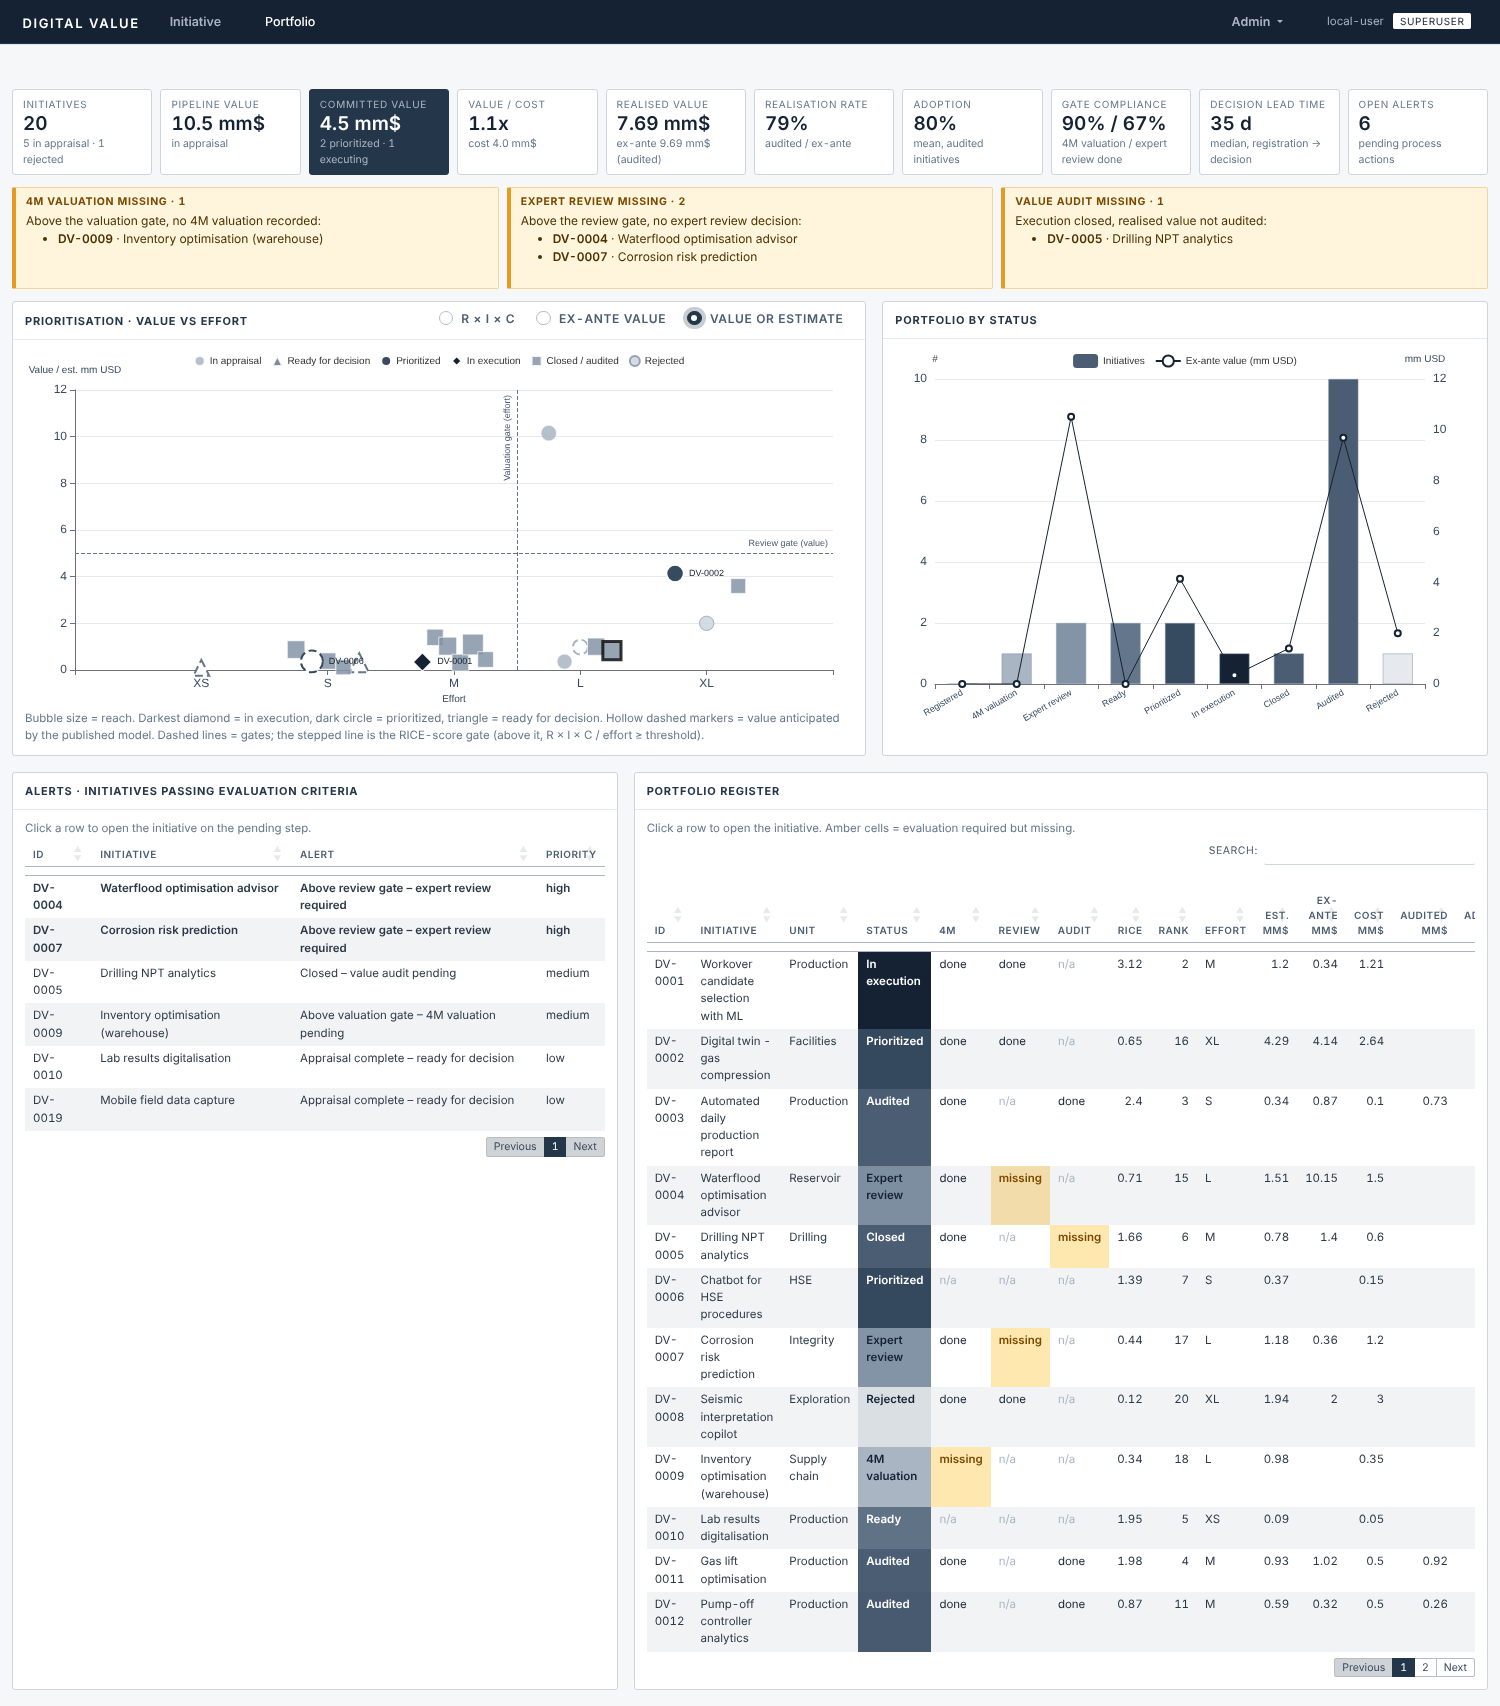
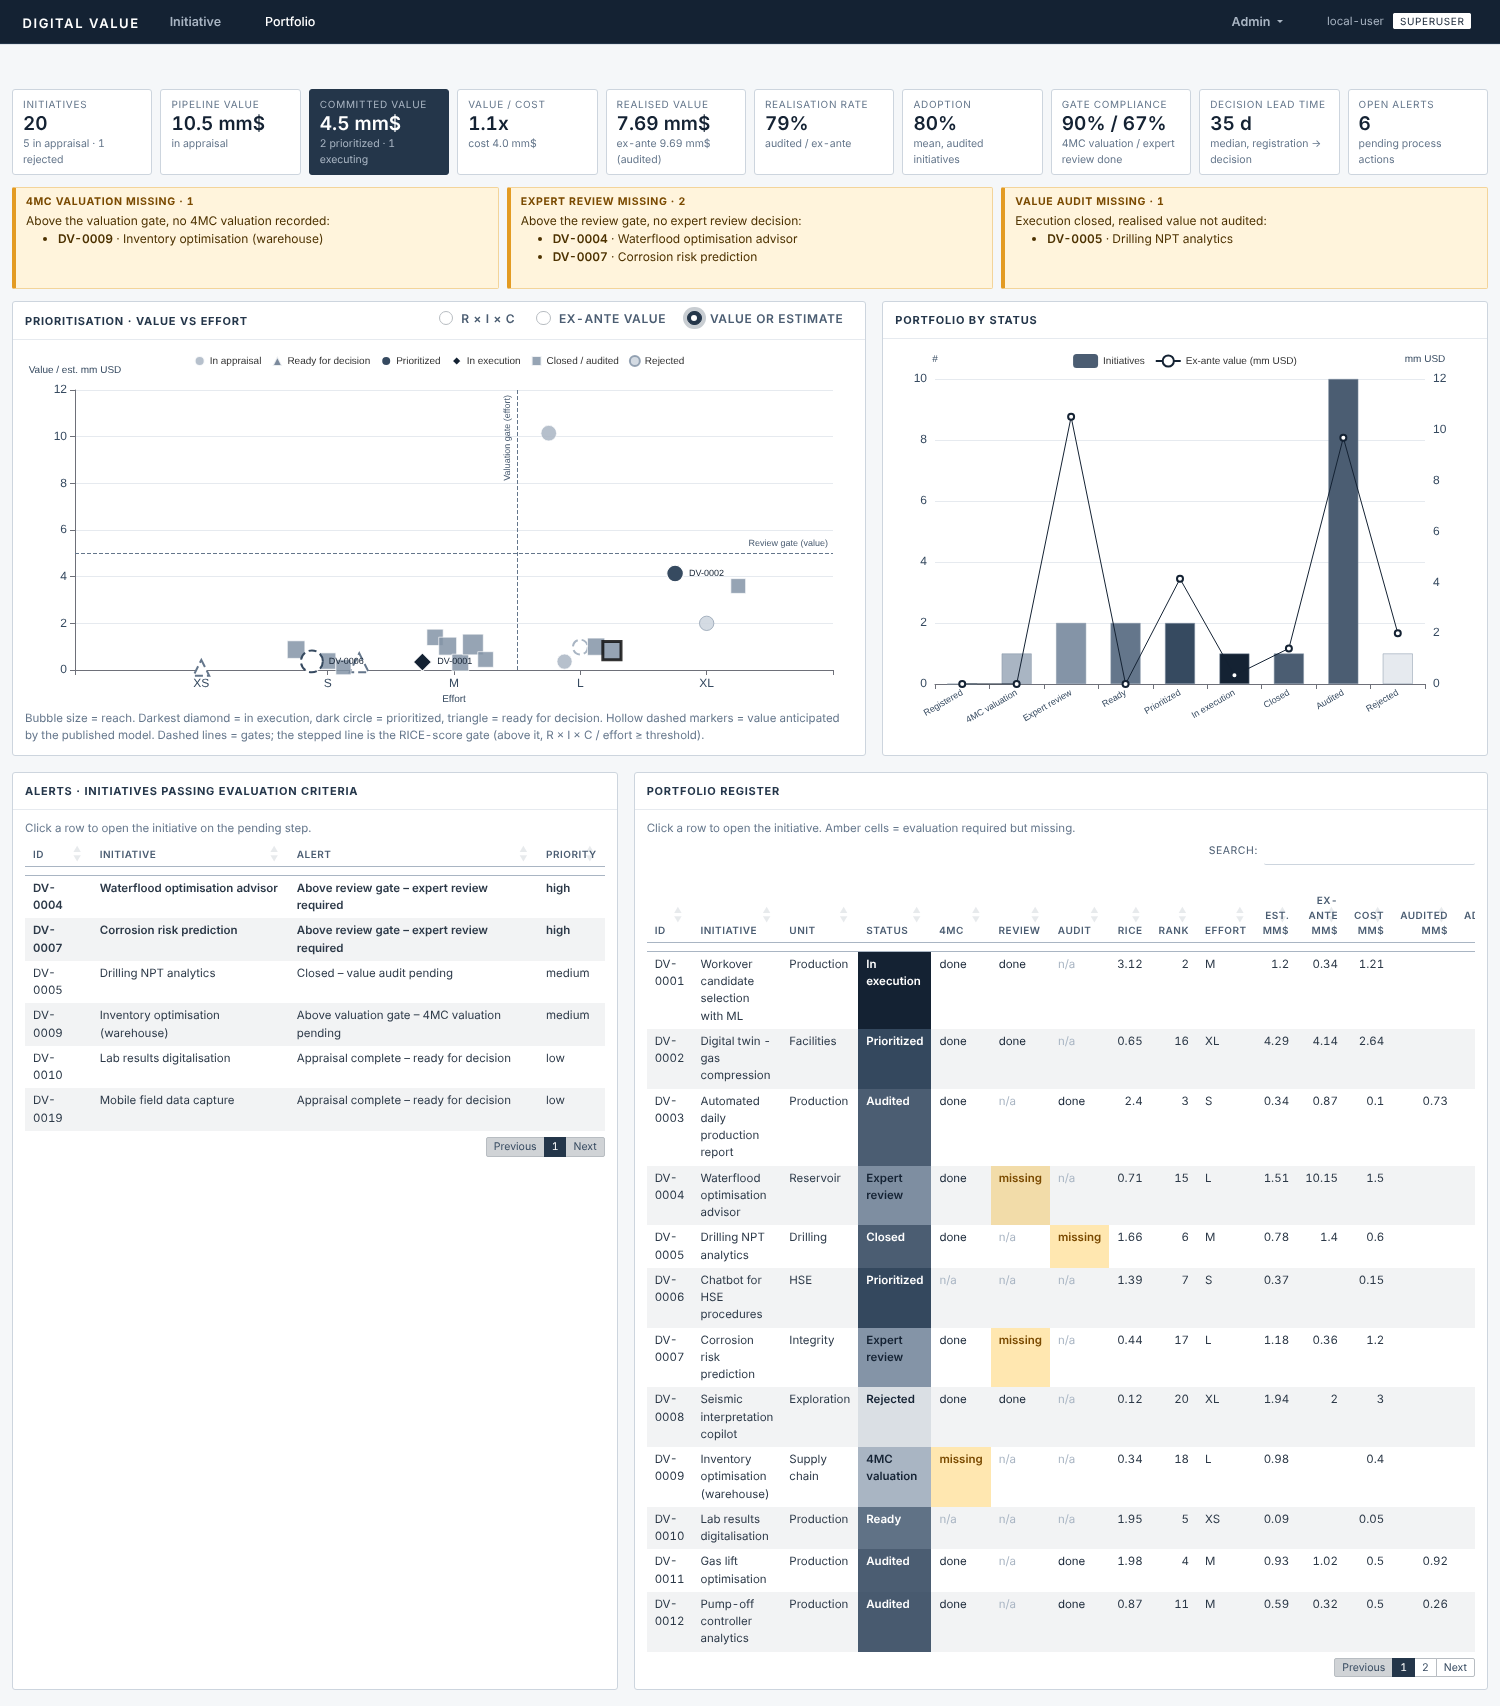
Rename 4M to 4MC (four value metrics plus cost)
User-facing labels, statuses, configuration, event map and README now say
4MC. Stored '4M valuation' statuses are renamed in place at startup.

Claude-Session: https://claude.ai/code/session_01N1EZf5BA3aM5WkjAKRAdJP

diff --git a/README.md b/README.md
@@ -16,15 +16,15 @@ Superusers also get an **Admin** menu: Value models, Process log and Parameters.
 | View | Step | What is recorded | Who | Required when |
 |---|---|---|---|---|
 | **Appraisal** (pre-execution) | 1 Registration & RICE | Name, description, owner, unit, cost, and the RICE inputs, saved in one form | **Everyone**. The record is then locked; only a superuser can change it | Always |
-| | 2 4M valuation | Calculation lines per metric (P, R, M, T), each with its formula, parameters and comment | Superuser | Effort ≥ L or RICE score ≥ 3 (*valuation gate*) |
-| | 3 Expert review | Manual evaluation: decision (Approve / Rework / Reject) with its **own 4M figures** and validated cost | Superuser | Ex-ante value ≥ 5 mm USD or cost ≥ 1 mm USD (*review gate*) |
+| | 2 4MC valuation | Calculation lines per metric (P, R, M, T and cost C), each with its formula, parameters and comment | Superuser | Effort ≥ L or RICE score ≥ 3 (*valuation gate*) |
+| | 3 Expert review | Manual evaluation: decision (Approve / Rework / Reject) with its **own 4MC figures**, including the validated cost C | Superuser | Ex-ante value ≥ 5 mm USD or cost ≥ 1 mm USD (*review gate*) |
 | | 4 Decision | Prioritize or reject | Superuser | — |
 | **Realisation** (post-execution) | 5 Execution | Start, then close | Superuser | — |
-| | 6 Value audit | **Actual 4M figures plus adoption** (% of the intended users actually using the solution) | Superuser | After closure |
+| | 6 Value audit | **Actual 4MC figures (including actual cost) plus adoption** (% of the intended users actually using the solution) | Superuser | After closure |
 
-The status always shows the next pending appraisal step (`Registered` → `4M valuation` → `Expert review` → `Ready`) until a decision is taken (`Prioritized`, `In execution`, `Closed`, `Audited`, `Rejected`). It is recalculated after every save, and every change is written to `status_history`.
+The status always shows the next pending appraisal step (`Registered` → `4MC valuation` → `Expert review` → `Ready`) until a decision is taken (`Prioritized`, `In execution`, `Closed`, `Audited`, `Rejected`). It is recalculated after every save, and every change is written to `status_history`.
 
-The **ex-ante value** of an initiative is the expert-review value when the review approved it, otherwise the 4M estimate.
+The **ex-ante value** of an initiative is the expert-review value when the review approved it, otherwise the 4MC estimate.
 
 ## User levels
 
@@ -32,7 +32,7 @@ The **ex-ante value** of an initiative is the expert-review value when the revie
 |---|:-:|:-:|
 | Register an initiative with its RICE | ✓ | ✓ |
 | Edit a registration or its RICE after saving | | ✓ |
-| 4M valuation, expert review, decisions, value audit | | ✓ |
+| 4MC valuation, expert review, decisions, value audit | | ✓ |
 | Calibrate and publish value models, Admin tabs | | ✓ |
 
 Superusers are identified from the Posit Connect login: members of the group in `DV_SUPERUSER_GROUP`, or users listed in `DV_SUPERUSERS` (comma-separated). When neither variable is set (local development), everyone is a superuser; `DV_DEV_ROLE=contributor` simulates a contributor. Forms a user cannot use are hidden or disabled, and every write is checked again on the server. The matrix is in `permission_matrix()` (`R/fct_roles.R`).
@@ -49,11 +49,13 @@ Superusers are identified from the Posit Connect login: members of the group in 
 | Confidence | Moonshot 0.2 · Low 0.5 · High 0.8 · Certain 1 |
 | Effort | XS 0.5 · S 1 · M 2 · L 4 · XL 8 |
 
-### 4M metrics
+### 4MC metrics
 
-The same metrics are used at every stage: the 4M valuation, the expert review and the value audit. There are four value metrics (P, R, M, T) and one cost metric (C). Cost is tracked next to value but **never added to it**. It gives the value/cost ratio, and its planned value feeds the cost side of the review gate. The planned cost is the approved review's C, else the 4M cost estimate, else the cost entered at registration.
+**4MC** = four value metrics (**P**roduction, **R**eserves, **M**onetary, **T**ime saved) plus **C**ost.
 
-| Metric | Calculation methods (4M valuation) | Converted to mm USD by |
+The same metrics are used at every stage: the 4MC valuation, the expert review and the value audit. There are four value metrics (P, R, M, T) and one cost metric (C). Cost is tracked next to value but **never added to it**. It gives the value/cost ratio, and its planned value feeds the cost side of the review gate. The planned cost is the approved review's C, else the 4MC cost estimate, else the cost entered at registration.
+
+| Metric | Calculation methods (4MC valuation) | Converted to mm USD by |
 |---|---|---|
 | **P** Production (avg yearly BOPD) | direct · jobs × rate × success-rate uplift · uptime gain · decline mitigation | BOPD × 365 × netback (35 USD/bbl), annual |
 | **R** Reserves (MMbbl) | direct · recovery-factor uplift on OOIP; category 1P / 2P / 3P / contingent | MMbbl × value per bbl of the category (10 / 6 / 3 / 1 USD/bbl), one-off |
@@ -61,7 +63,7 @@ The same metrics are used at every stage: the 4M valuation, the expert review an
 | **T** Time saved (khours) | direct · users × h/week × weeks · tasks × minutes saved | khours × 1000 × (salary / work hours) × productivity coefficient **3**, annual |
 | **C** Cost (mm USD) | capex + opex × years · effort (person-months) × rate + licences | as entered; kept separate from value |
 
-Each 4M calculation line stores its parameters as JSON together with the formula and a comment, so it can be traced and recomputed:
+Each 4MC calculation line stores its parameters as JSON together with the formula and a comment, so it can be traced and recomputed:
 
 ```
 [P] 10 jobs × 30 BOPD × (70% − 60%) = 30 BOPD → 0.383 mm USD
@@ -77,7 +79,7 @@ Two log-linear regressions chain the lifecycle (`R/fct_value_model.R`):
 
 | Model | Target | Predictors | Shown in |
 |---|---|---|---|
-| RICE → ex-ante value | Ex-ante value (expert review, else 4M estimate) | log10(users), log impact, log confidence, log effort | Registration form, Portfolio estimates and the "Value or estimate" chart view |
+| RICE → ex-ante value | Ex-ante value (expert review, else 4MC estimate) | log10(users), log impact, log confidence, log effort | Registration form, Portfolio estimates and the "Value or estimate" chart view |
 | Ex-ante → realised value | Audited value | log ex-ante value, log confidence, log effort | Expert review and Realisation views |
 
 * **Range**: the regression prediction interval, back-transformed from the log scale, reported as median and P10–P90 (`value_model_interval = 0.8`).
@@ -87,10 +89,10 @@ Two log-linear regressions chain the lifecycle (`R/fct_value_model.R`):
 ### Alerts and KPIs
 
 * **Missing evaluations** are the only thing shown in colour (amber):
-  * **Initiative tab:** the "next stage required" callouts. Registration & RICE shows whether a 4M valuation is needed; the 4M valuation card shows whether an expert review is needed. Pending required steps are tagged in amber.
-  * **Portfolio tab:** one callout per missing evaluation type (4M valuation, expert review, value audit), listing the initiatives concerned, plus amber "missing" cells in the register's 4M / Review / Audit columns.
+  * **Initiative tab:** the "next stage required" callouts. Registration & RICE shows whether a 4MC valuation is needed; the 4MC valuation card shows whether an expert review is needed. Pending required steps are tagged in amber.
+  * **Portfolio tab:** one callout per missing evaluation type (4MC valuation, expert review, value audit), listing the initiatives concerned, plus amber "missing" cells in the register's 4MC / Review / Audit columns.
 * **Alerts** list initiatives above a gate with a pending step, closed initiatives without an audit, and initiatives ready for a decision. Clicking an alert opens the initiative on the right view.
-* **Portfolio KPIs**: pipeline, committed and realised value; value/cost; realisation rate (audited ÷ ex-ante); mean adoption; gate compliance (share of required 4M valuations and reviews actually done); decision lead time; open alerts.
+* **Portfolio KPIs**: pipeline, committed and realised value; value/cost; realisation rate (audited ÷ ex-ante); mean adoption; gate compliance (share of required 4MC valuations and reviews actually done); decision lead time; open alerts.
 * **Prioritisation chart** (value vs effort, bubble size = reach): the y-axis is reach × impact × confidence (RICE without the effort divisor), the ex-ante value, or the value / model estimate. On the R × I × C view the RICE-score gate is drawn as a staircase (threshold × effort weight): initiatives above it pass the valuation gate. Single-hue palette, with prioritized initiatives as dark circles and initiatives in execution as the darkest diamonds.
 
 ## Architecture
@@ -134,9 +136,9 @@ Environment variables are used only for infrastructure and identity: `DV_DB_PATH
 * **Schema changes**: columns added after the first release are created in place when the app starts (`db_migrate()`), so existing databases keep working.
 * **Tables**:
   * `initiatives`, `rice`
-  * `m4_lines`: 4M calculation lines
-  * `reviews`: expert reviews with their 4M figures
-  * `audits`: actual 4M figures, actual cost and adoption
+  * `m4_lines`: 4MC calculation lines
+  * `reviews`: expert reviews with their 4MC figures
+  * `audits`: actual 4MC figures, actual cost and adoption
   * `value_models`: published model versions
   * `status_history`, `event_log`
 * **Migration to an enterprise database**: only `R/data_db.R` changes. Add a driver branch in `db_connect()` (e.g. `odbc::odbc()`). The SQL is ANSI with `?` placeholders (`sql_params()` rewrites them for PostgreSQL), and timestamps are ISO-8601 UTC text.
@@ -145,7 +147,7 @@ Environment variables are used only for infrastructure and identity: `DV_DB_PATH
 ## Process mining
 
 1. **Raw events**: input changes and navigation are captured in the browser, buffered, and sent every 5 s as one JSON input to `event_log`, together with the user, session and active initiative.
-2. **Mapped events**: input names are mapped to readable activities and lifecycle phases using regexes in `event_map.csv`. For example, `initiative-valuation-add` becomes "Add 4M calculation" in phase "2 4M valuation".
+2. **Mapped events**: input names are mapped to readable activities and lifecycle phases using regexes in `event_map.csv`. For example, `initiative-valuation-add` becomes "Add 4MC calculation" in phase "2 4MC valuation".
 3. **Activity instances**: consecutive events are grouped into activity instances with start and complete timestamps.
 4. **Business log**: status transitions.
 
@@ -159,7 +161,7 @@ Already in place:
 * **Value models**: published models are evaluated from stored coefficients, with no refitting per session.
 
 Proposed next steps:
-* **API**: a plumber API on Connect for the RICE / 4M / value-model engine, so other tools can use it.
+* **API**: a plumber API on Connect for the RICE / 4MC / value-model engine, so other tools can use it.
 * **Scheduled jobs**: run the KPI and process-mining aggregations as scheduled jobs and store the results as tables.
 * **Caching**: `bindCache()` on the portfolio query.
 
